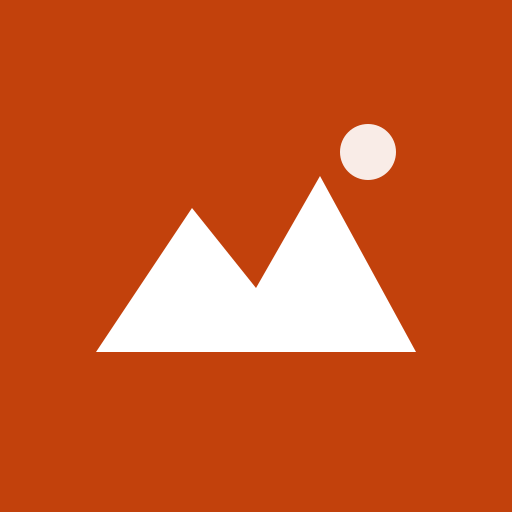
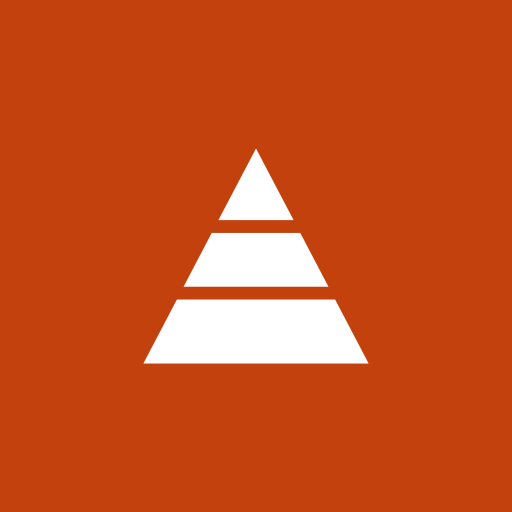
Айдентика Arlan Ops: новое лого, тексты West Arlan Group, анимация загрузки
- Переименование отображаемого имени: QuarryOps -> Arlan Ops; описание —
  «Система управления и учёта производства West Arlan Group» (title, PWA-манифест,
  apple-web-app, словарь ru.ts)
- Новый флэт-знак LogoMark: треугольник из трёх уступов карьера (по мотивам
  фирменного треугольника WAG), в вордмарке Arlan + оранжевый Ops;
  WagMonogram — фирменная монограмма «WA», перекрашенная в оранжевый
- Логин-экран: крупная монограмма WA + вордмарк
- BrandLoading: на всех 9 экранах загрузки поверх скелетона знак,
  уступы которого «строятся» снизу вверх (CSS-анимация brand-band)
- PWA-иконки 192/512/maskable и favicon перегенерированы из нового знака
  (scripts/gen-icons.mjs, sharp); старый favicon.ico удалён

Changed region(s): [[0.1875, 0.2812, 0.8125, 0.7188], [0.6562, 0.2188, 0.7812, 0.375]]

diff --git a/src/components/brand/logo-mark.tsx b/src/components/brand/logo-mark.tsx
@@ -1,0 +1,30 @@
+import { cn } from "@/lib/utils";
+
+/**
+ * Знак Arlan Ops: треугольник из трёх уступов карьера (флэт, по мотивам
+ * фирменного треугольника West Arlan Group). Цвет — currentColor.
+ * `animated` — ступени мягко пульсируют снизу вверх (экраны загрузки).
+ */
+export function LogoMark({ className, animated = false }: { className?: string; animated?: boolean }) {
+  const band = (i: number) =>
+    animated ? { className: "brand-band", style: { animationDelay: `${i * 0.18}s` } } : {};
+  return (
+    <svg viewBox="0 0 96 96" fill="currentColor" aria-hidden className={cn("shrink-0", className)}>
+      <path d="M17.1 65 H78.9 L92 90 H4 Z" {...band(0)} />
+      <path d="M30.7 39 H65.3 L76.3 60 H19.7 Z" {...band(1)} />
+      <path d="M48 6 L62.7 34 H33.3 Z" {...band(2)} />
+    </svg>
+  );
+}
+
+/**
+ * Фирменная монограмма «WA» West Arlan Group (перекрашена в currentColor —
+ * в приложении используется оранжевой). Для крупных мест: логин, сплэш.
+ */
+export function WagMonogram({ className }: { className?: string }) {
+  return (
+    <svg viewBox="0 0 719.49 635.66" fill="currentColor" aria-hidden className={cn("shrink-0", className)}>
+      <path d="M613.8,437.27c-62.3-103.58-132.83-240.95-201.5-355.51L367.22,0h-16.51c-5.26,19.77-26.22,45.86-33.35,61.03-12.21,25.99-1.91,26.43,18.72,64.07l206.32,360.76,30.4,59.77-106.51.95c-9.82-18.63-13.04-29.8-27.52-49.02l-155.86-274.97c-10.29-18.78-10.26-28.99-25.78-40.4-19.27,12.94-14.27,13.44-25.87,34.79-8.93,16.45-15.27,26.27-23.65,42.54l-143.13,248.42c-77.1,142.82-94.44,127.54-.02,127,86.18-.49,172.52-.02,258.72-.02-2-24.09-9.24-28.93-19.64-46.55-33.15-56.19-11.28-41.79-156.49-41.79,3.5-13.11,16.34-33.82,24.36-47.34l91.22-145.89c4.18,18,25.71,50.9,36.21,68.58,8.16,13.76,11.9,23.61,19.08,36.06,7.25,12.59,11.91,19.4,19.91,35.23l78.91,141.69h302.74c-2.68-32.14-85.4-163.93-105.69-197.65Z" />
+    </svg>
+  );
+}

diff --git a/src/components/brand/brand-loading.tsx b/src/components/brand/brand-loading.tsx
@@ -1,0 +1,14 @@
+import { cn } from "@/lib/utils";
+import { LogoMark } from "@/components/brand/logo-mark";
+
+/**
+ * Оверлей на скелетоны загрузки: знак Arlan Ops, уступы которого «строятся»
+ * снизу вверх. Класть внутрь relative-контейнера со скелетонами.
+ */
+export function BrandLoading({ className }: { className?: string }) {
+  return (
+    <div className={cn("pointer-events-none absolute inset-0 flex items-center justify-center", className)}>
+      <LogoMark animated className="size-16 text-primary drop-shadow-sm" />
+    </div>
+  );
+}

diff --git a/src/app/globals.css b/src/app/globals.css
@@ -151,6 +151,15 @@
   font-weight: 500;
 }
 
+/* Экраны загрузки: уступы знака Arlan Ops «строятся» снизу вверх. */
+@keyframes brand-band {
+  0%, 100% { opacity: 0.25; }
+  50% { opacity: 1; }
+}
+.brand-band {
+  animation: brand-band 1.4s ease-in-out infinite;
+}
+
 @layer base {
   * {
     @apply border-border outline-ring/50;

diff --git a/src/components/brand/logo.tsx b/src/components/brand/logo.tsx
@@ -1,16 +1,16 @@
-import { Mountain } from "lucide-react";
 import { cn } from "@/lib/utils";
+import { LogoMark } from "@/components/brand/logo-mark";
 
-/** Вордмарк QuarryOps: оранжевый знак + название. */
+/** Вордмарк Arlan Ops: оранжевый знак-треугольник + название. */
 export function Logo({ compact = false, className }: { compact?: boolean; className?: string }) {
   return (
     <span className={cn("inline-flex items-center gap-2", className)}>
       <span className="grid size-7 shrink-0 place-items-center rounded-md bg-primary text-primary-foreground">
-        <Mountain className="size-4" />
+        <LogoMark className="size-4" />
       </span>
       {!compact ? (
         <span className="text-base font-bold tracking-tight">
-          Quarry<span className="text-primary">Ops</span>
+          Arlan&nbsp;<span className="text-primary">Ops</span>
         </span>
       ) : null}
     </span>

diff --git a/src/app/login/page.tsx b/src/app/login/page.tsx
@@ -7,7 +7,7 @@ import {
   CardTitle,
 } from "@/components/ui/card";
 import { ThemeToggle } from "@/components/theme-toggle";
-import { Logo } from "@/components/brand/logo";
+import { WagMonogram } from "@/components/brand/logo-mark";
 import { LoginForm } from "./login-form";
 import { getCurrentProfile } from "@/lib/auth/current-user";
 import { homePathForRoles } from "@/lib/auth/roles";
@@ -28,7 +28,10 @@ export default async function LoginPage() {
       <div className="flex flex-1 items-center justify-center px-4 pb-16">
         <Card className="w-full max-w-sm">
           <CardHeader className="items-center text-center">
-            <Logo className="mb-2" />
+            <WagMonogram className="mx-auto mb-2 h-14 w-16 text-primary" />
+            <p className="mb-2 text-xl font-bold tracking-tight">
+              Arlan <span className="text-primary">Ops</span>
+            </p>
             <CardTitle className="text-2xl">{ru.auth.loginTitle}</CardTitle>
             <CardDescription>{ru.auth.loginSubtitle}</CardDescription>
           </CardHeader>

diff --git a/src/app/manifest.ts b/src/app/manifest.ts
@@ -3,9 +3,9 @@ import type { MetadataRoute } from "next";
 /** PWA-манифест: полевые сотрудники ставят приложение на главный экран. */
 export default function manifest(): MetadataRoute.Manifest {
   return {
-    name: "QuarryOps — учёт техники и ГСМ",
-    short_name: "QuarryOps",
-    description: "Учёт работы техники и ГСМ на карьере",
+    name: "Arlan Ops — West Arlan Group",
+    short_name: "Arlan Ops",
+    description: "Система управления и учёта производства West Arlan Group",
     start_url: "/",
     display: "standalone",
     background_color: "#ffffff",

diff --git a/src/app/fleet/admin/loading.tsx b/src/app/fleet/admin/loading.tsx
@@ -1,14 +1,16 @@
 import { Skeleton } from "@/components/ui/skeleton";
+import { BrandLoading } from "@/components/brand/brand-loading";
 
 export default function Loading() {
   return (
-    <div className="flex flex-1 flex-col gap-4 p-4">
+    <div className="relative flex flex-1 flex-col gap-4 p-4">
       <Skeleton className="h-8 w-56" />
       <div className="flex gap-2">
         <Skeleton className="h-9 w-56" />
         <Skeleton className="ml-auto h-9 w-28" />
       </div>
       <Skeleton className="h-96 w-full" />
+      <BrandLoading />
     </div>
   );
 }

diff --git a/src/app/fleet/dashboard/loading.tsx b/src/app/fleet/dashboard/loading.tsx
@@ -1,8 +1,9 @@
 import { Skeleton } from "@/components/ui/skeleton";
+import { BrandLoading } from "@/components/brand/brand-loading";
 
 export default function Loading() {
   return (
-    <div className="flex flex-1 flex-col gap-4 p-4">
+    <div className="relative flex flex-1 flex-col gap-4 p-4">
       <Skeleton className="h-8 w-40" />
       <div className="flex gap-2">
         <Skeleton className="h-8 w-24" />
@@ -13,6 +14,7 @@ export default function Loading() {
         <Skeleton className="h-24" /><Skeleton className="h-24" /><Skeleton className="h-24" /><Skeleton className="h-24" />
       </div>
       <Skeleton className="h-72 w-full" />
+      <BrandLoading />
     </div>
   );
 }

diff --git a/src/app/fleet/fuel/loading.tsx b/src/app/fleet/fuel/loading.tsx
@@ -1,8 +1,9 @@
 import { Skeleton } from "@/components/ui/skeleton";
+import { BrandLoading } from "@/components/brand/brand-loading";
 
 export default function Loading() {
   return (
-    <div className="mx-auto flex w-full max-w-md flex-1 flex-col gap-4 p-4">
+    <div className="relative mx-auto flex w-full max-w-md flex-1 flex-col gap-4 p-4">
       <Skeleton className="h-8 w-44" />
       <Skeleton className="h-12 w-full" />
       <div className="grid grid-cols-2 gap-2">
@@ -10,6 +11,7 @@ export default function Loading() {
       </div>
       <Skeleton className="h-32 w-full" />
       <Skeleton className="h-14 w-full" />
+      <BrandLoading />
     </div>
   );
 }

diff --git a/src/app/fleet/journals/loading.tsx b/src/app/fleet/journals/loading.tsx
@@ -1,11 +1,13 @@
 import { Skeleton } from "@/components/ui/skeleton";
+import { BrandLoading } from "@/components/brand/brand-loading";
 
 export default function Loading() {
   return (
-    <div className="flex flex-1 flex-col gap-4 p-4">
+    <div className="relative flex flex-1 flex-col gap-4 p-4">
       <Skeleton className="h-8 w-56" />
       <Skeleton className="h-24 w-full" />
       <Skeleton className="h-96 w-full" />
+      <BrandLoading />
     </div>
   );
 }

diff --git a/src/app/fleet/office/loading.tsx b/src/app/fleet/office/loading.tsx
@@ -1,14 +1,16 @@
 import { Skeleton } from "@/components/ui/skeleton";
+import { BrandLoading } from "@/components/brand/brand-loading";
 
 export default function Loading() {
   return (
-    <div className="flex flex-1 flex-col gap-4 p-4">
+    <div className="relative flex flex-1 flex-col gap-4 p-4">
       <Skeleton className="h-8 w-56" />
       <div className="flex gap-2">
         <Skeleton className="h-8 w-24" /><Skeleton className="h-8 w-24" /><Skeleton className="h-8 w-24" />
       </div>
       <Skeleton className="h-64 w-full" />
       <Skeleton className="h-40 w-full" />
+      <BrandLoading />
     </div>
   );
 }

diff --git a/src/app/fleet/shifts/loading.tsx b/src/app/fleet/shifts/loading.tsx
@@ -1,8 +1,9 @@
 import { Skeleton } from "@/components/ui/skeleton";
+import { BrandLoading } from "@/components/brand/brand-loading";
 
 export default function Loading() {
   return (
-    <div className="mx-auto flex w-full max-w-md flex-1 flex-col gap-4 p-4">
+    <div className="relative mx-auto flex w-full max-w-md flex-1 flex-col gap-4 p-4">
       <Skeleton className="h-8 w-44" />
       <div className="grid grid-cols-2 gap-3">
         <Skeleton className="h-16" /><Skeleton className="h-16" />
@@ -11,6 +12,7 @@ export default function Loading() {
       <Skeleton className="h-28 w-full" />
       <Skeleton className="h-28 w-full" />
       <Skeleton className="h-14 w-full" />
+      <BrandLoading />
     </div>
   );
 }